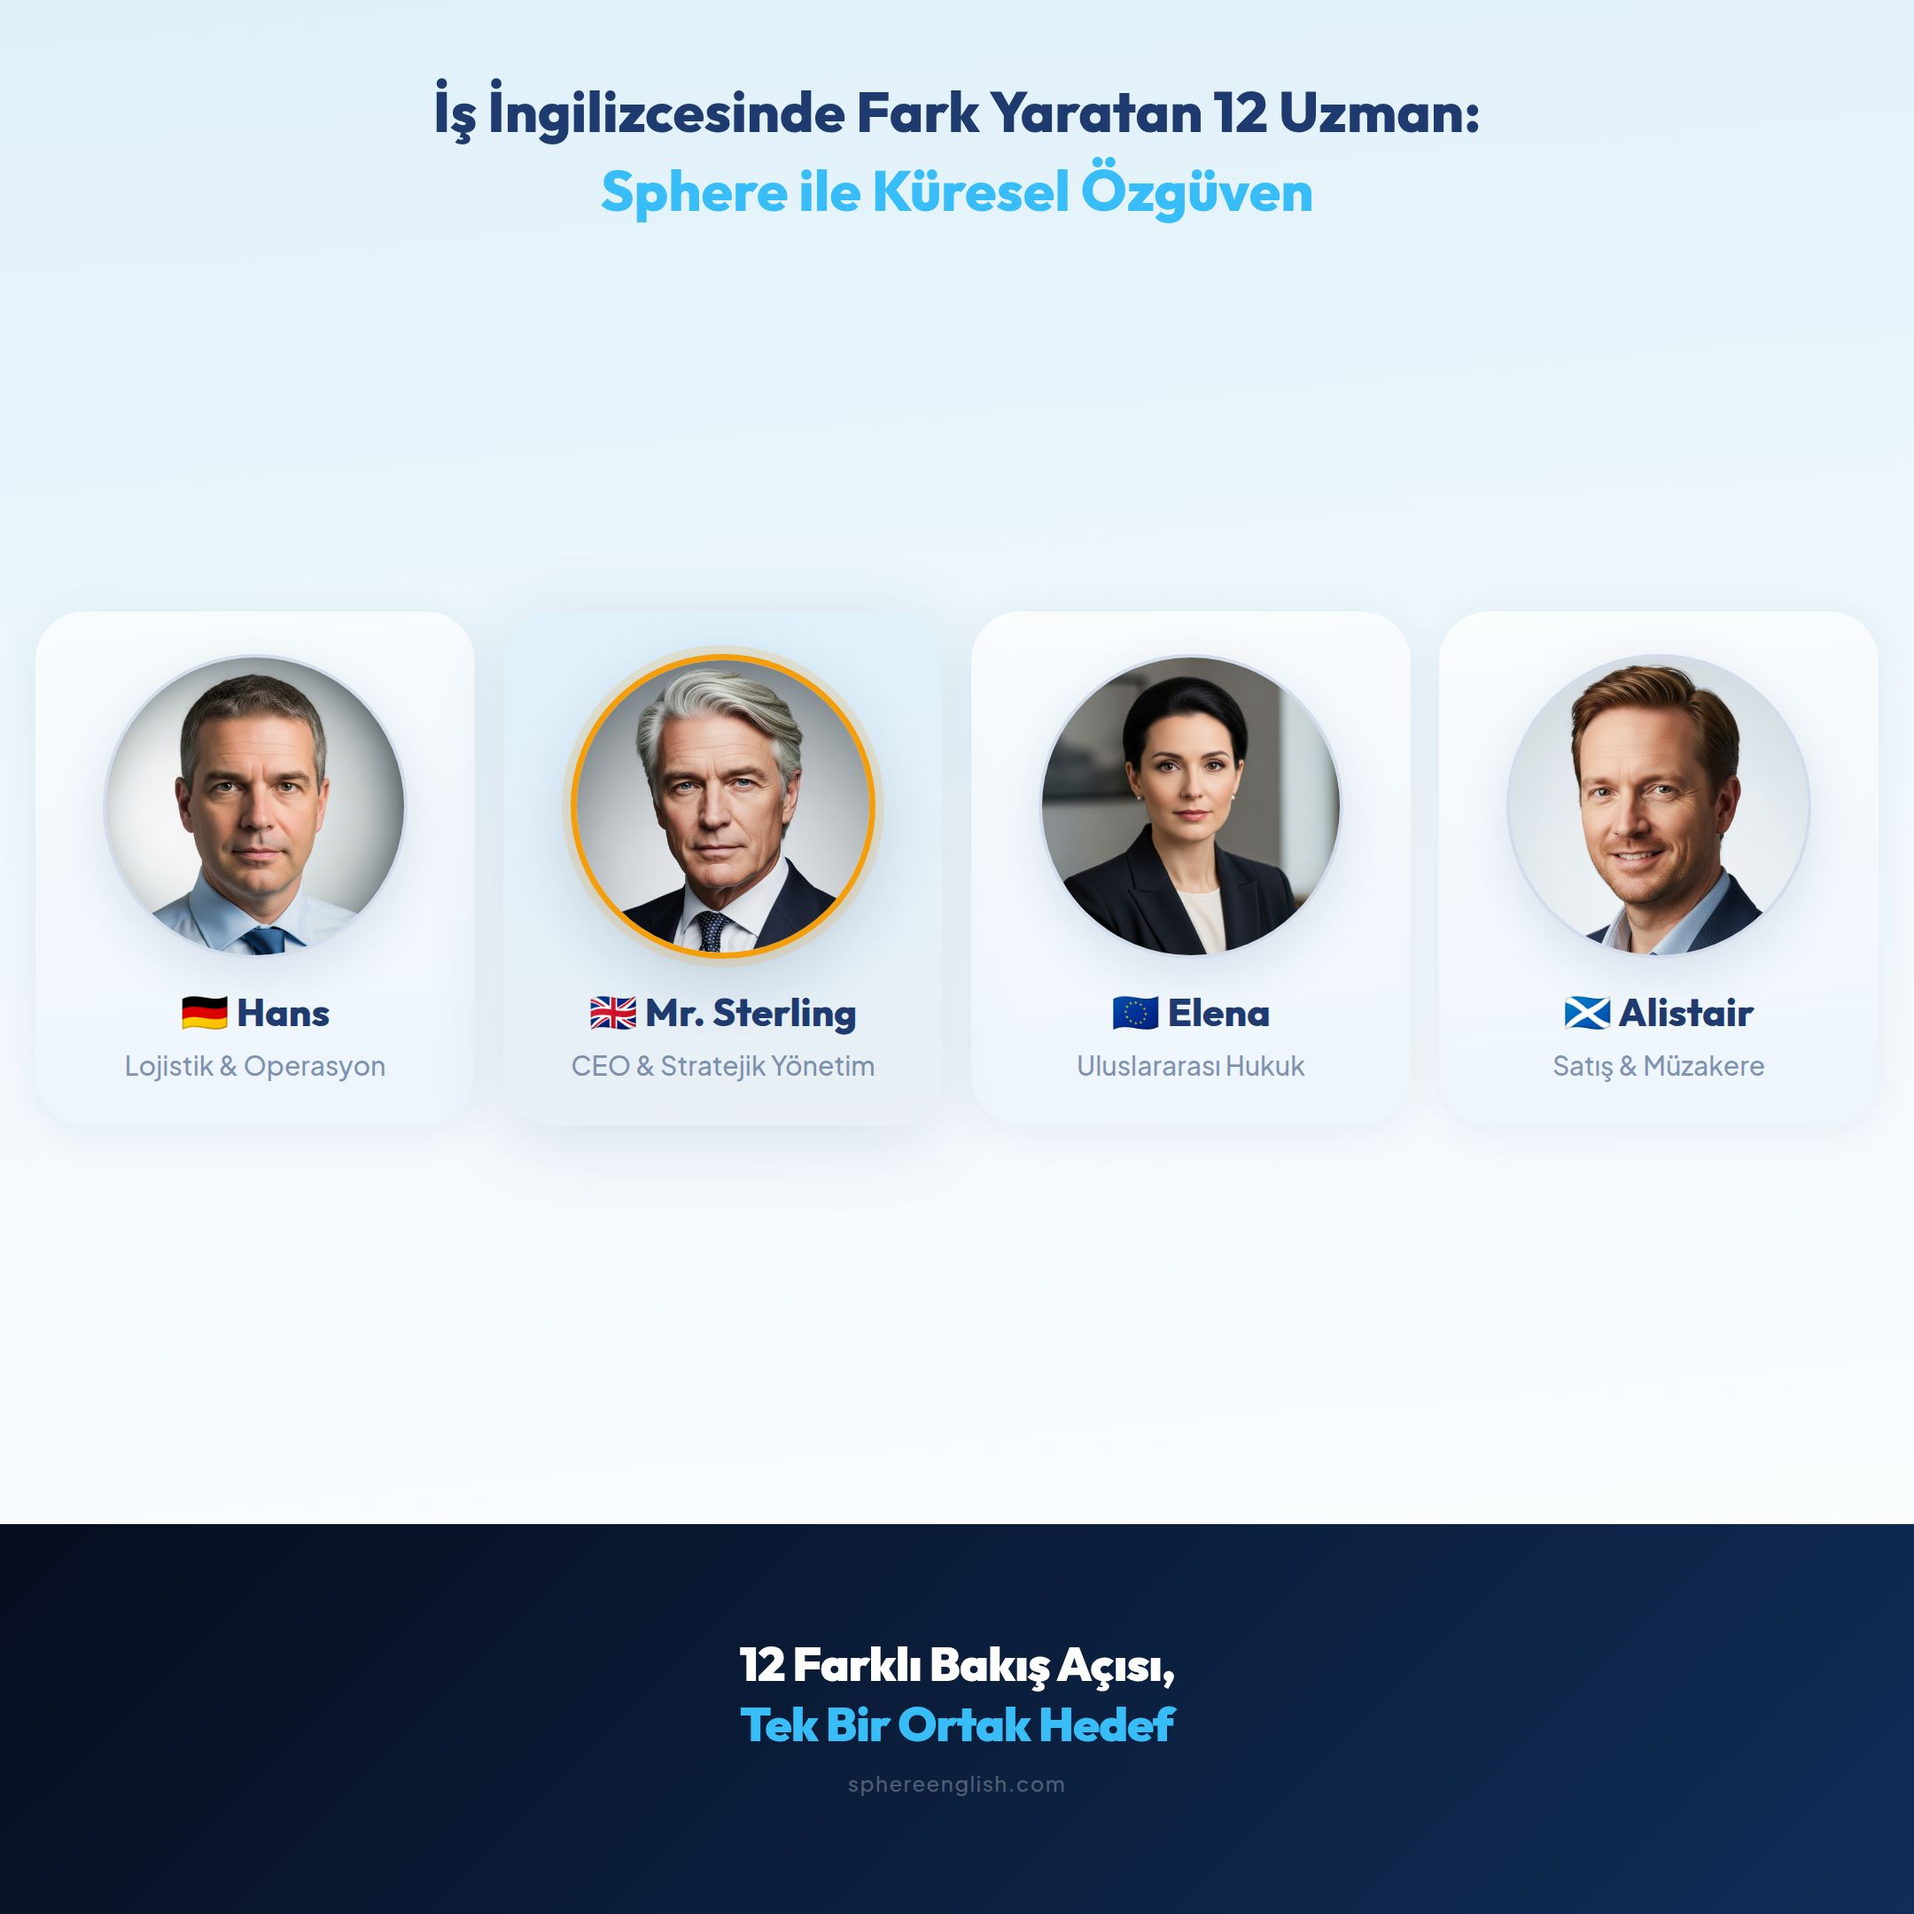
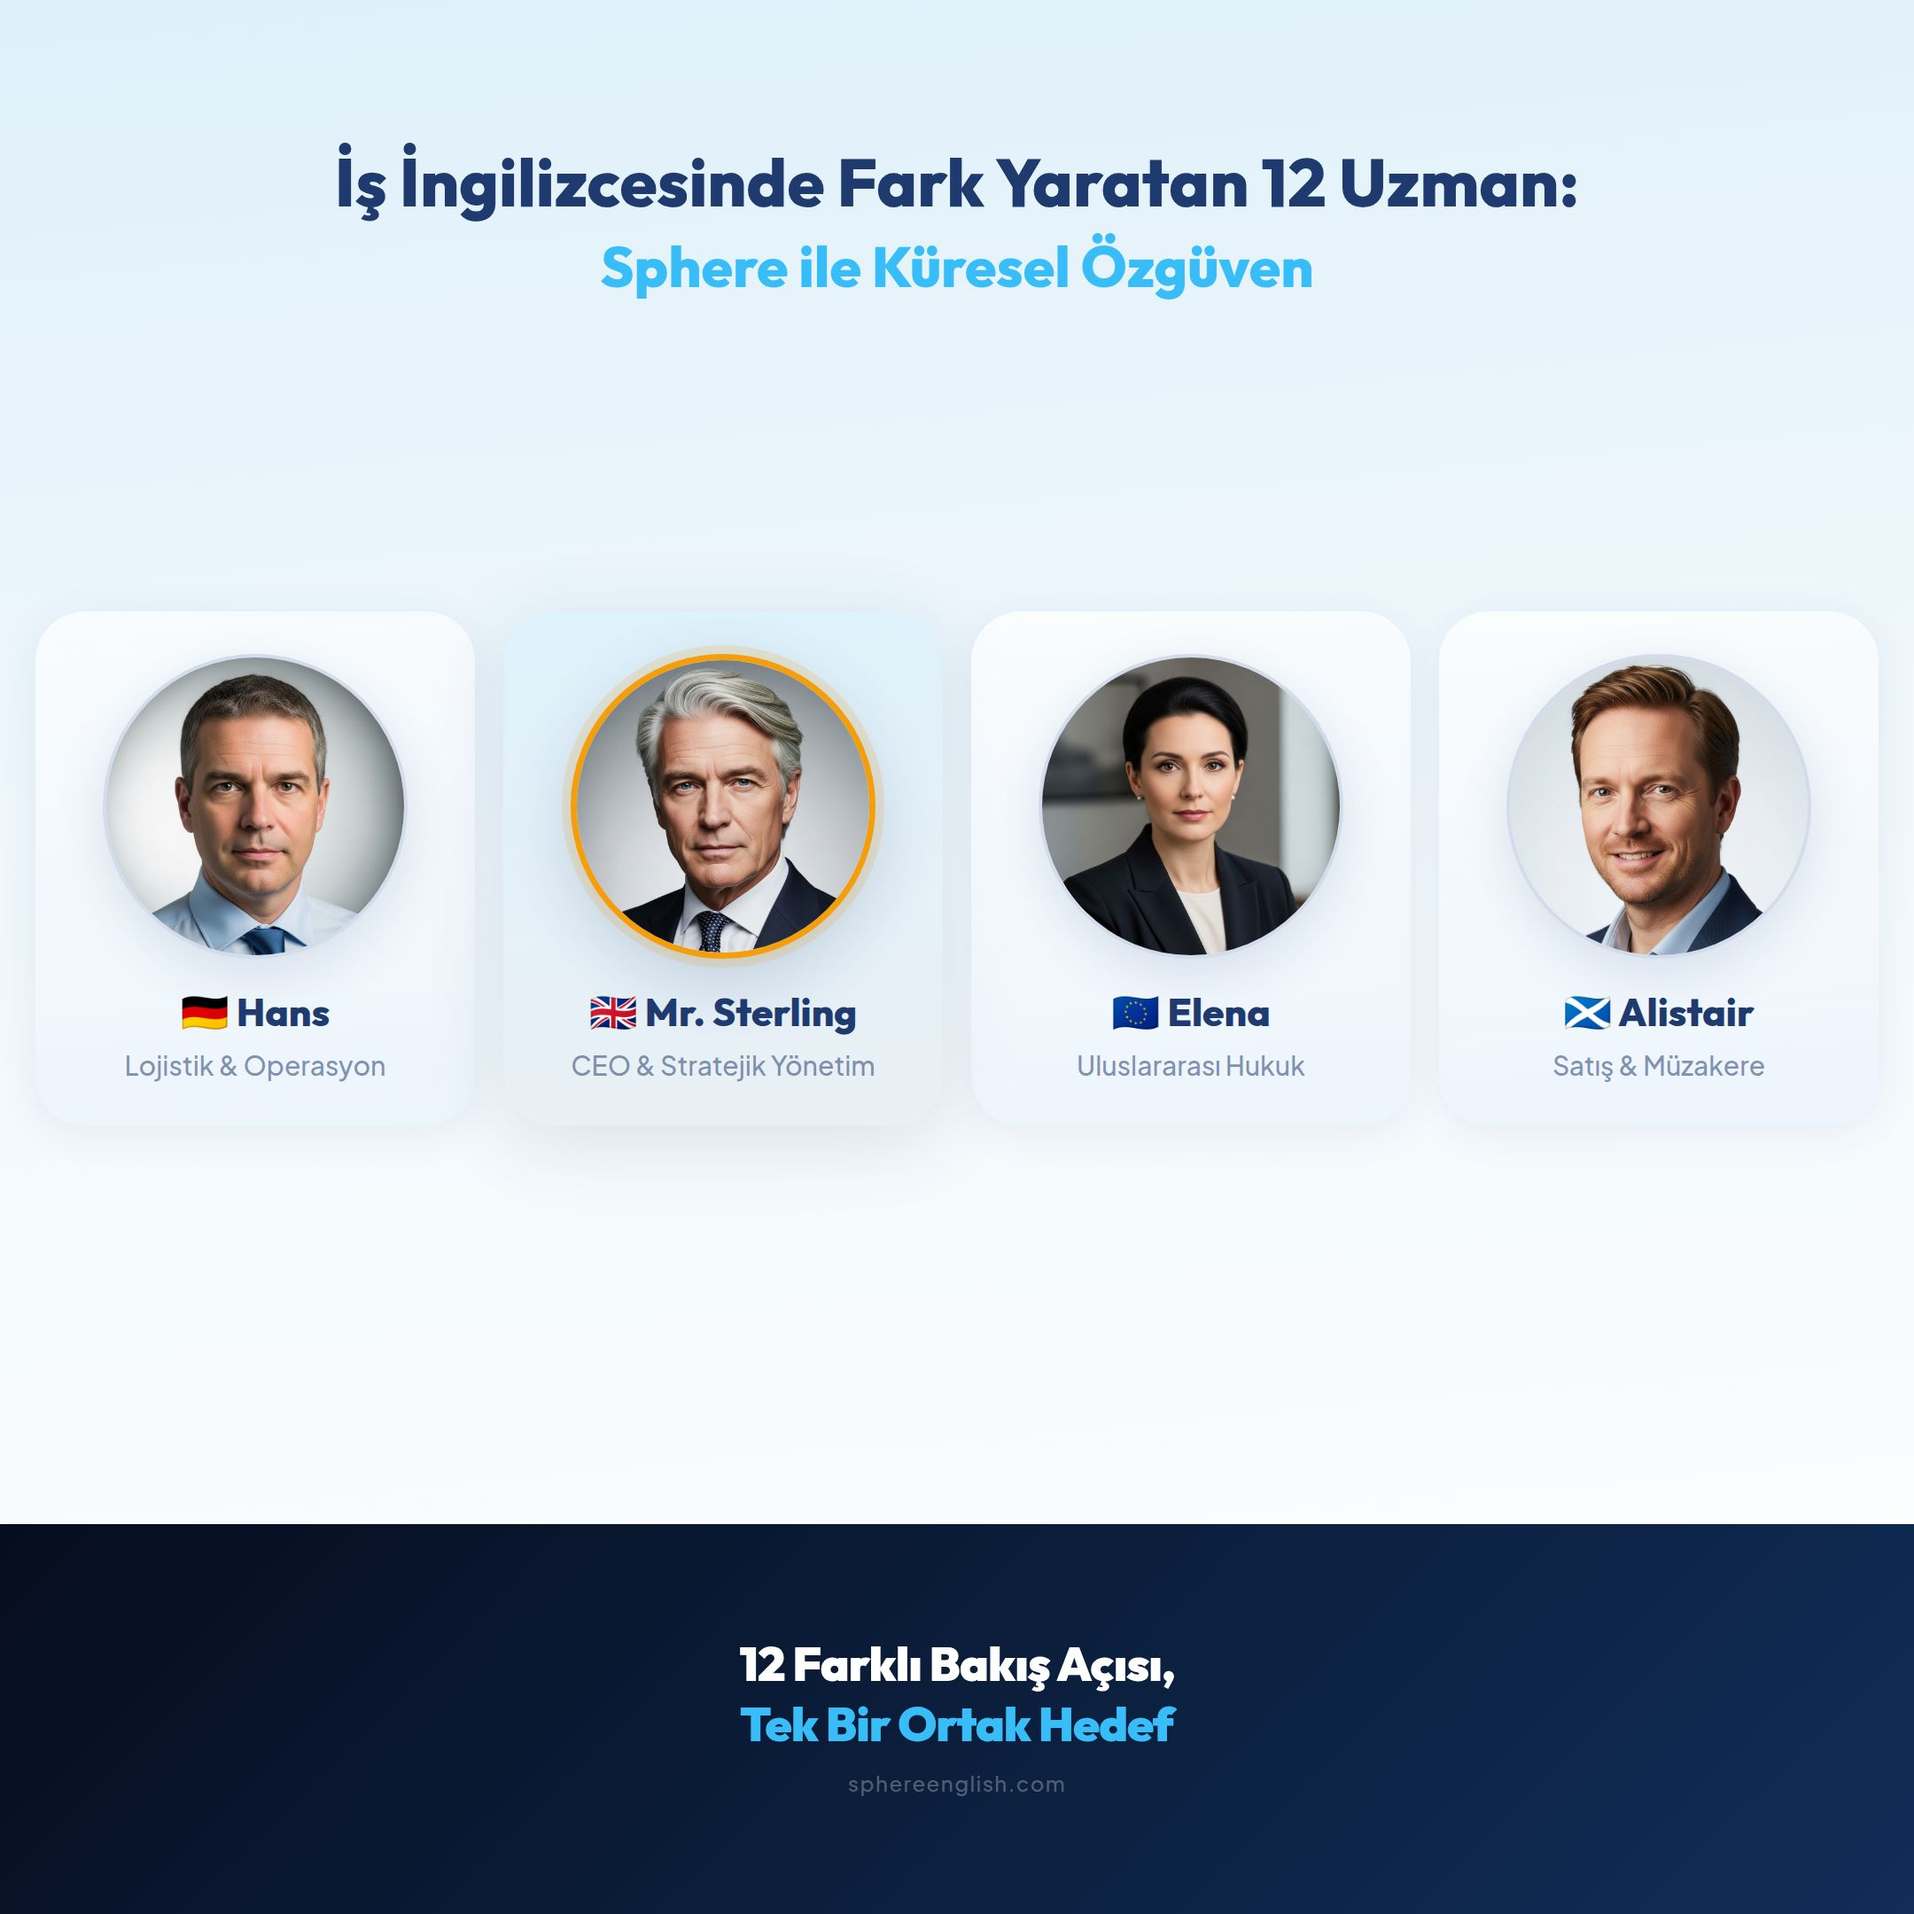
Adjust title position and size for better visual appeal
Update the font size of the primary title to 38px and adjust its top position to 80px in TeamPost.tsx.

Replit-Commit-Author: Agent
Replit-Commit-Session-Id: 7828208e-226c-43ef-9a3e-875997ce7956
Replit-Commit-Checkpoint-Type: full_checkpoint
Replit-Commit-Event-Id: a33bd34f-964d-4105-b1d9-ad92b5d41a70
Replit-Commit-Screenshot-Url: https://storage.googleapis.com/screenshot-production-us-central1/f780e6cf-cd3b-477f-8b05-3e4b163e7069/7828208e-226c-43ef-9a3e-875997ce7956/mZDMu0V
Replit-Helium-Checkpoint-Created: true

Changed region(s): [[0.1551, 0.031, 0.8375, 0.1551]]

diff --git a/artifacts/mockup-sandbox/src/components/mockups/instagram-post/TeamPost.tsx b/artifacts/mockup-sandbox/src/components/mockups/instagram-post/TeamPost.tsx
@@ -69,12 +69,12 @@ const Panel = ({ coaches, msgIdx }: { coaches: Coach[]; msgIdx: number }) => {
       {isMiddle && (
         <div style={{
           position: "absolute",
-          top: px(44), left: px(24), right: px(24),
+          top: px(80), left: px(24), right: px(24),
           textAlign: "center",
           display: "flex", flexDirection: "column", gap: px(6),
         }}>
           <div style={{
-            fontSize: px(32), fontWeight: 800, color: PRIMARY,
+            fontSize: px(38), fontWeight: 800, color: PRIMARY,
             fontFamily: '"Outfit", sans-serif', lineHeight: 1.2,
           }}>İş İngilizcesinde Fark Yaratan 12 Uzman:</div>
           <div style={{
